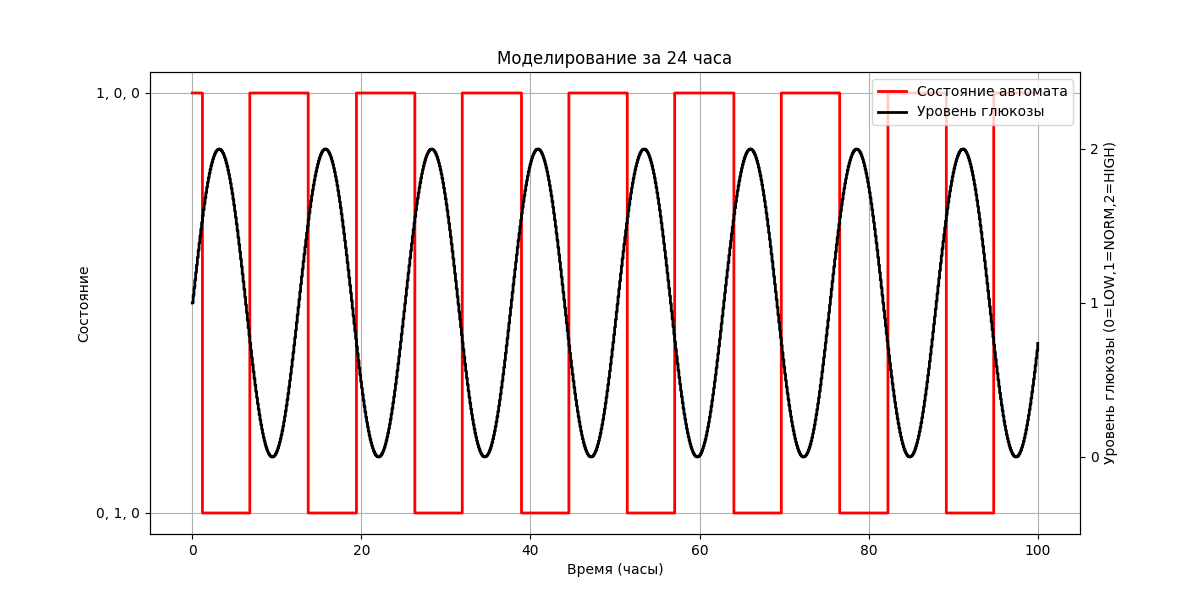
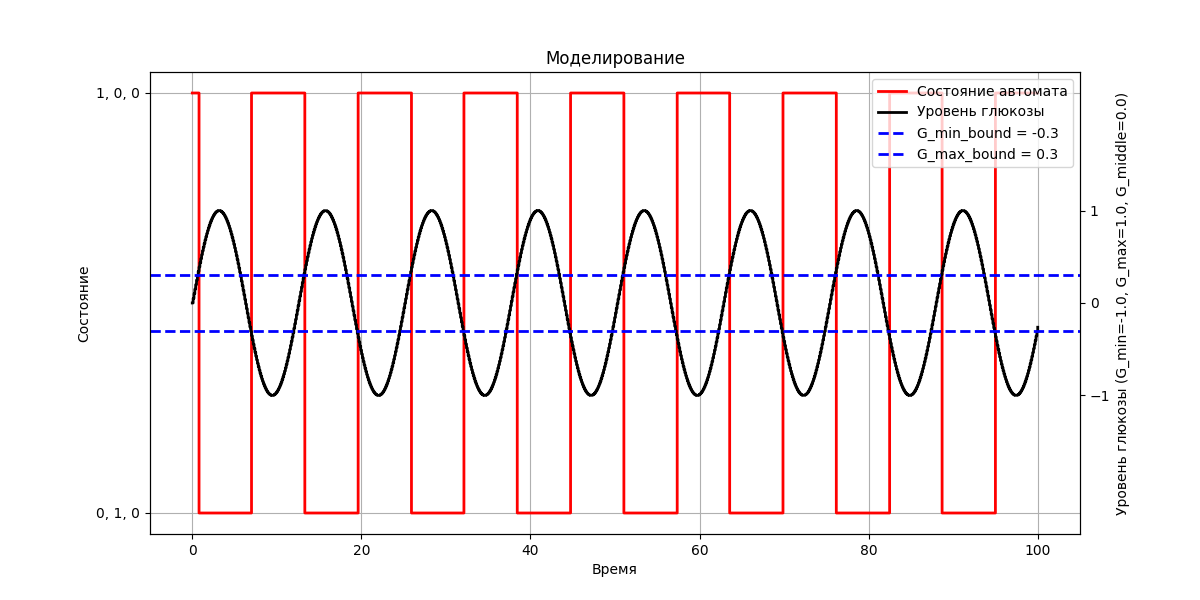
add class Glucose

Changed region(s): [[0.1233, 0.15, 0.9558, 0.87], [0.4008, 0.09, 0.6167, 0.12], [0.4625, 0.93, 0.555, 0.96]]

diff --git a/main.py b/main.py
@@ -2,33 +2,22 @@ import itertools
 import networkx as nx
 import matplotlib.pyplot as plt
 import numpy as np
-import math
-
-
-def modify_G(G: float) -> int:
-    if G < 0.8:
-        return 0  # LOW
-    elif G < 1.5:
-        return 1  # NORMAL
-    return 2# HIGH
+from glucose import (
+    glucose
+)
 
 
 # ----------------------------------
 # 1. Функция перехода
 # ----------------------------------
 def transition(state: tuple[int, int, int], G: float) -> tuple[int, int, int]:
-    G: int = modify_G(G=G)
     prev_alpha, prev_beta, prev_delta = state
     new_alpha, new_beta, new_delta = prev_alpha, prev_beta, 0
 
-    # Гистерезис: зона гомеостаза 3.5 <= G <= 5.5
-    if G >= 1.2:
+    if G >= glucose.G_max_bound:
         new_alpha, new_beta = 0, 1
-    elif G <= 0.8:
+    elif G <= glucose.G_min_bound:
         new_alpha, new_beta = 1, 0
-    else:
-        # Сохраняем предыдущее состояние в зоне гомеостаза
-        pass
 
     # Дельта-клетки: активируются только если в предыдущем состоянии
     # были активны и альфа, и бета (конфликт)
@@ -37,9 +26,9 @@ def transition(state: tuple[int, int, int], G: float) -> tuple[int, int, int]:
         new_alpha, new_beta = 0, 0  # Сбрасываем конфликт
         
     # Задержка деактивации: клетки остаются активными 1 шаг после выхода из их зоны
-    if new_alpha == 0 and G > 0.8 and G < 1.2:
+    if new_alpha == 0 and G > glucose.G_min_bound and G < glucose.G_max_bound:
         new_alpha = prev_alpha  # Сохраняем предыдущее состояние альфа
-    if new_beta == 0 and G > 0.8 and G < 1.2:
+    if new_beta == 0 and G > glucose.G_min_bound and G < glucose.G_max_bound:
         new_beta = prev_beta  # Сохраняем предыдущее состояние бета
 
     return (new_alpha, new_beta, new_delta)
@@ -47,15 +36,16 @@ def transition(state: tuple[int, int, int], G: float) -> tuple[int, int, int]:
 # 2. Словарь имен состояний
 # ----------------------------------
 state_names = {
-    (0,0,0): "0, 0, 0",
-    (1,0,0): "1, 0, 0",
-    (0,1,0): "0, 1, 0",
-    (0,0,1): "0, 0, 1",
-    (1,1,0): "1, 1, 0",
-    (1,0,1): "1, 0, 1",
-    (0,1,1): "0, 1, 1",
-    (1,1,1): "1, 1, 1"
+    (0, 0, 0): "0, 0, 0",
+    (1, 0, 0): "1, 0, 0",
+    (0, 1, 0): "0, 1, 0",
+    (0, 0, 1): "0, 0, 1",
+    (1, 1, 0): "1, 1, 0",
+    (1, 0, 1): "1, 0, 1",
+    (0, 1, 1): "0, 1, 1",
+    (1, 1, 1): "1, 1, 1"
 }
+
 
 # Функция для обратного отображения: по состоянию (кортежу) возвращает строку
 def state_label(state):
@@ -66,14 +56,13 @@ def state_label(state):
 # ----------------------------------
 def build_full_graph():
     all_states = list(itertools.product([0,1],[0,1],[0,1]))  # 8 состояний
-    all_G = [0,1,2]  # G=0,1,2
     G_graph = nx.DiGraph()
     # Добавляем узлы
     for s in all_states:
         G_graph.add_node(s)
     edge_labels = {}
     for s in all_states:
-        for g in all_G:
+        for g in (glucose.G_min, glucose.G_middle, glucose.G_max):
             ns = transition(s, g)
             label_str = f"({g}, {s[0]}, {s[1]}, {s[2]})"
             if (s, ns) not in G_graph.edges():
@@ -84,25 +73,17 @@ def build_full_graph():
     return G_graph, edge_labels
 
 
-def glucose_pattern(t: float) -> int:
-    return 1 + np.sin(t/2)
-
-
-def bar(t: float, amplitude=2, period=2):
-    return amplitude * ((t % period) < (period / 2))
-
-
 def simulate():
-    time_points = np.linspace(0, 100, 1000)  # от 0 до 24 (24 не включается)
+    time_points = np.linspace(0, 100, 1000) 
     states_over_time = []
     glucose_over_time = []
 
     current_state = (1, 0, 0)  # Начальное состояние
     for t in time_points:
-        G = glucose_pattern(t)
+        G = glucose.glucose_func(t=t)
         states_over_time.append(current_state)
         glucose_over_time.append(G)
-        next_state = transition(current_state, G)
+        next_state = transition(current_state, glucose.modify_G(G=G))
         current_state = next_state
 
     return time_points, states_over_time, glucose_over_time
@@ -110,7 +91,7 @@ def simulate():
 # ----------------------------------
 # 6. Построение графиков: комбинированный граф (глюкоза и состояния)
 # ----------------------------------
-def plot_24h(time_points, states_over_time, glucose_over_time):
+def plot_simulation(time_points, states_over_time, glucose_over_time):
     unique = sorted({s for s in states_over_time}, key=lambda s: state_label(s))
     mapping = {s: i for i, s in enumerate(unique)}
     numeric_states = [mapping[s] for s in states_over_time]
@@ -119,7 +100,7 @@ def plot_24h(time_points, states_over_time, glucose_over_time):
 
     # Левая ось Y - состояния автомата
     ax1.step(time_points, numeric_states, where='post', color='red', label='Состояние автомата', linewidth=2)
-    ax1.set_xlabel("Время (часы)")
+    ax1.set_xlabel("Время")
     ax1.set_ylabel("Состояние")
     ax1.set_yticks(list(mapping.values()))
     ax1.set_yticklabels([state_label(s) for s in unique])
@@ -128,21 +109,25 @@ def plot_24h(time_points, states_over_time, glucose_over_time):
     # Правая ось Y - уровень глюкозы
     ax2 = ax1.twinx()
     ax2.step(time_points, glucose_over_time, where='post', color='black', label='Уровень глюкозы', linewidth=2)
-    ax2.set_ylabel("Уровень глюкозы (0=LOW,1=NORM,2=HIGH)")
-    ax2.set_yticks([0, 1, 2])
-    ax2.set_ylim(-0.5, 2.5)
+    ax2.set_ylabel(f"Уровень глюкозы (G_min={glucose.G_min}, G_max={glucose.G_max}, G_middle={glucose.G_middle})")
+    ax2.set_yticks([glucose.G_min, glucose.G_middle, glucose.G_max])
+    ax2.set_ylim(-2.5, 2.5)
+
+    # Добавляем две синие пунктирные линии в позициях G_min_bound и G_max_bound
+    ax2.axhline(glucose.G_min_bound, color='blue', linestyle='--', linewidth=2,
+                label=f'G_min_bound = {glucose.G_min_bound}')
+    ax2.axhline(glucose.G_max_bound, color='blue', linestyle='--', linewidth=2,
+                label=f'G_max_bound = {glucose.G_max_bound}')
 
     # Объединяем легенды
     lines1, labels1 = ax1.get_legend_handles_labels()
     lines2, labels2 = ax2.get_legend_handles_labels()
     ax1.legend(lines1 + lines2, labels1 + labels2, loc='upper right')
 
-    plt.title("Моделирование за 24 часа")
+    plt.title("Моделирование")
     plt.savefig("graph2.png")
 
-# ----------------------------------
-# 7. Основной блок: построение графа, симуляция и вывод графиков и таблицы переходов
-# ----------------------------------
+
 if __name__ == "__main__":
     # Строим полный граф переходов
     full_graph, full_edge_labels = build_full_graph()
@@ -156,7 +141,7 @@ if __name__ == "__main__":
 
     # Симулируем 24 часа
     t_points, states_over_time, glucose_over_time = simulate()
-    plot_24h(t_points, states_over_time, glucose_over_time)
+    plot_simulation(t_points, states_over_time, glucose_over_time)
 
     # Вывод таблицы переходов
     print("Таблица переходов (24 часа):")

diff --git a/glucose.py b/glucose.py
@@ -1,0 +1,30 @@
+import numpy as np
+
+
+class Glucose:
+    def __init__(self, t_min=0, t_max=100, num_points=1000, fraction=0.35):
+        self.t_min = t_min
+        self.t_max = t_max
+        self.num_points = num_points
+        self.t = np.linspace(t_min, t_max, num_points)
+        self.values = self.glucose_func(self.t)
+        self.G_min = np.round(np.min(self.values), 1)
+        self.G_max = np.round(np.max(self.values), 1)
+
+        self.G_middle = np.round((self.G_min + self.G_max) / 2.0, 1)
+        self.G_range = self.G_max - self.G_min
+        self.G_min_bound = np.round(self.G_min + fraction * self.G_range, 1)
+        self.G_max_bound = np.round(self.G_min + (1 - fraction) * self.G_range, 1)
+
+    def glucose_func(self, t):
+        return np.sin(t/2)
+    
+    def modify_G(self, G: float) -> int:
+        if G < self.G_min_bound:
+            return self.G_min  # LOW
+        if G < self.G_max_bound:
+            return self.G_middle  # NORMAL
+        return self.G_max  # HIGH
+    
+
+glucose = Glucose(t_min=0, t_max=100, num_points=1000)
